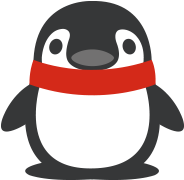
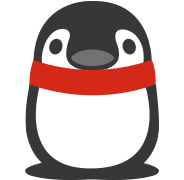
[!]

Changed region(s): [[0.8424, 0.4722, 1.0, 0.75], [0.0, 0.4722, 0.163, 0.75]]

diff --git a/demo/webank_2/css/style.css b/demo/webank_2/css/style.css
@@ -1990,8 +1990,8 @@ body{ background:#2559a8 url(../images/bg.jpg) no-repeat center bottom; backgrou
 .ice_hole_1 .tree_wrap_2 .tree_4{ display:block; height:12px; width:10px; background:url(../images/detail/tree_2.png) no-repeat 0 0; background-size:contain; position:absolute; left:55px; top:-6px;}
 
 .detail_penguin_wrap_2{ display:block; height:41px; width:44px; position:absolute; left:7px; top:-15px;}
-.detail_penguin_wrap_2 .penguin_show_2{ display:block; height:41px; width:44px; position:absolute; left:0; top:0;}
-.detail_penguin_wrap_2 .penguin_show_2 .detail_penguin_2{ display:block; height:41px; width:44px; background:url(../images/detail/detail_penguin_2.png) no-repeat 0 0; background-size:contain; position:absolute; left:0; top:0;}
+.detail_penguin_wrap_2 .penguin_show_2{ display:block; height:41px; width:44px; position:absolute; left:0; top:-5px; overflow:hidden;}
+.detail_penguin_wrap_2 .penguin_show_2 .detail_penguin_2{ display:block; height:41px; width:44px; background:url(../images/detail/detail_penguin_2.png) no-repeat 0 0; background-size:contain; position:absolute; left:0; top:0; -webkit-transform:translate(0,42px);}
 
 .firework_1{ display:block; height:84px; width:37px; background:url(../images/detail/firework_1.png) no-repeat 0 0; background-size:contain; position:absolute; left:4px; top:-60px;}
 .firework_2{ display:block; height:36px; width:45px; background:url(../images/detail/firework_2.png) no-repeat 0 0; background-size:contain; position:absolute; left:13px; top:-41px;}
@@ -2005,7 +2005,9 @@ body{ background:#2559a8 url(../images/bg.jpg) no-repeat center bottom; backgrou
 .wrap_show .event_list .item_2{ -webkit-animation:a_list_item 0.2s 1s linear both;}
 .wrap_show .event_list .item_3{ -webkit-animation:a_list_item 0.2s 1.2s linear both;}
 .wrap_show .event_list .item_4{ -webkit-animation:a_list_item 0.2s 1.4s linear both;}
-.wrap_show .detail_penguin_2{ -webkit-animation:a_detail_penguin_1 4s 0.3s linear infinite;}
+.wrap_show .detail_penguin_2{ -webkit-animation:a_detail_penguin_1 4.5s 0.5s linear infinite;}
+.wrap_show .firework_1{ -webkit-animation:a_firework_1 4.5s 0.3s linear infinite;}
+.wrap_show .firework_2{ -webkit-animation:a_firework_1 4.5s 0.6s linear infinite;}
 
 .wrap_show .ice_lake_1 .ice_block_1{ -webkit-animation:a_ice_block_1 4s 0.3s linear infinite alternate;}
 .wrap_show .detail_penguin_wrap_1 .penguin_show_1 .detail_penguin_1{ -webkit-animation:a_detail_penguin_1 4s 0.3s linear infinite;}
@@ -2014,6 +2016,20 @@ body{ background:#2559a8 url(../images/bg.jpg) no-repeat center bottom; backgrou
 .wrap_show .detail_penguin_wrap_1 .ripple_3{ -webkit-animation:a_ripple_1 4s 0.6s linear infinite;}
 .wrap_show .ice_lake_2 .boat_hook{ -webkit-animation:a_boat_hook_1 2s 1s linear both;}
 .wrap_show .ice_lake_2 .boat{ -webkit-animation:a_ice_block_1 4s 0.5s linear infinite alternate;}
+
+
+
+@-webkit-keyframes a_firework_1{
+	0%{ -webkit-transform:translate(0,-6px); opacity:0;}
+	20%{ -webkit-transform:translate(1px,-3px); opacity:0;}
+	25%{ -webkit-transform:translate(-1px,0px); opacity:1;}
+	40%{ -webkit-transform:translate(2px,3px); opacity:1;}
+	50%{ -webkit-transform:translate(-1px,6px); opacity:1;}
+	60%{ -webkit-transform:translate(2px,9px); opacity:1;}
+	75%{ -webkit-transform:translate(-1px,12px); opacity:1;}
+	80%{ -webkit-transform:translate(0px,15px); opacity:0;}
+	100%{ -webkit-transform:translate(0,0px); opacity:0;}
+}
 
 @-webkit-keyframes a_ice_block_1{
 	0%{ -webkit-transform:translate(0,0);}
@@ -2024,15 +2040,15 @@ body{ background:#2559a8 url(../images/bg.jpg) no-repeat center bottom; backgrou
 }
 
 @-webkit-keyframes a_detail_penguin_1{
-	0%{ -webkit-transform:translate(0,30px);}
-	20%{ -webkit-transform:translate(0px,30px);}
+	0%{ -webkit-transform:translate(0,42px);}
+	20%{ -webkit-transform:translate(0px,42px);}
 	25%{ -webkit-transform:translate(0px,0px);}
 	40%{ -webkit-transform:translate(0px,3px);}
 	50%{ -webkit-transform:translate(0px,1px);}
 	60%{ -webkit-transform:translate(0px,3px);}
 	75%{ -webkit-transform:translate(0px,0px);}
-	80%{ -webkit-transform:translate(0px,30px);}
-	100%{ -webkit-transform:translate(0,30px);}
+	80%{ -webkit-transform:translate(0px,42px);}
+	100%{ -webkit-transform:translate(0,42px);}
 }
 
 @-webkit-keyframes a_ripple_1{
@@ -2125,11 +2141,70 @@ body{ background:#2559a8 url(../images/bg.jpg) no-repeat center bottom; backgrou
 
 .ice_hole_2{ display:block; height:171px; width:212px; background:url(../images/detail/ice_hole_2.png) no-repeat 0 0; background-size:contain; position:absolute; left:50%; top:98px; margin-left:-106px;}
 .ice_hole_2 .ice_block_2{ display:block; height:100px; width:172px; background:url(../images/detail/ice_block_2.png) no-repeat 0 0; background-size:contain; position:absolute; left:13px; top:15px;}
-.ice_hole_2 .ice_block_2 .penguin_wrap_9{ display:block; height:90px; width:92px; background:url(../images/detail/detail_penguin_3.png) no-repeat 0 0; background-size:contain; position:absolute; left:48px; top:-22px; z-index:1;}
-.ice_hole_2 .ice_block_2 .penguin_shadow_9{ display:block; height:16px; width:85px; background:#cadaee; position:absolute; left:53px; bottom:28px; border-radius:85px/16px;}
+.penguin_wrap_9{ display:block; height:90px; width:92px; background:url(../images/detail/detail_penguin_3.png) no-repeat 0 0; background-size:contain; position:absolute; left:48px; top:-22px; z-index:1; opacity:0;}
+.penguin_wrap_9 .penguin_hand_1{ display:block; height:24px; width:18px; background:url(../images/detail/penguin_3_hand_1.png) no-repeat 0 0; background-size:contain; position:absolute; left:0px; top:43px; z-index:1; -webkit-transform-origin:100% 10%;}
+.penguin_wrap_9 .penguin_hand_2{ display:block; height:24px; width:18px; background:url(../images/detail/penguin_3_hand_2.png) no-repeat 0 0; background-size:contain; position:absolute; left:75px; top:43px; z-index:1; -webkit-transform-origin:0% 10%;}
+.penguin_shadow_9,.penguin_shadow_9_1,.penguin_shadow_9_2{ display:block; height:16px; width:85px; background:#cadaee; position:absolute; left:53px; bottom:28px; border-radius:85px/16px;}
+.penguin_shadow_9_1{ -webkit-transform:scale(0.5); left:-6px; top:-7px;}
+.penguin_shadow_9_2{ -webkit-transform:scale(0.38); left:124px; top:-21px;}
+.penguin_wrap_9_s_1{ -webkit-transform:scale(0.5); left:-10px; top:-66px;}
+.penguin_wrap_9_s_2{ -webkit-transform:scale(0.38); left:120px; top:-75px;}
 .join_us_title{ display:block; height:69px; width:127px; background:url(../images/detail/join_us.png) no-repeat 0 0; background-size:contain; position:absolute; left:50%; top:277px; margin-left:-63px; overflow:hidden; text-indent:-9999px;}
 .email_link{ display:block; height:70px; width:110px; background:url(../images/detail/join_email.png) no-repeat 0 0; background-size:contain; position:absolute; left:50%; top:391px; margin-left:-55px; overflow:hidden; text-indent:-9999px;}
 
+.wrap_show .ice_hole_2 .ice_block_2{ -webkit-animation:a_ice_block_1 4s 0.3s linear infinite alternate;}
+.wrap_show .ice_lake_8 .ice_block_1{ -webkit-animation:a_ice_block_1 4s 0.6s linear infinite alternate;}
+.wrap_show .ice_lake_8 .boat{ -webkit-animation:a_ice_block_1 4s 0.9s linear infinite alternate;}
+.wrap_show .join_us_title{ -webkit-animation:a_stock_title 0.3s 0.5s linear both;}
+.wrap_show .email_link{ -webkit-animation:a_stock_title 0.3s 0.8s linear both;}
+
+.wrap_show .penguin_wrap_9_leader{ -webkit-animation:a_penguin_9 0.2s 0.3s linear both;}
+.wrap_show .penguin_wrap_9_s_1{ -webkit-animation:a_penguin_9 0.2s 3s linear both;}
+.wrap_show .penguin_wrap_9_s_2{ -webkit-animation:a_penguin_9 0.2s 4.5s linear both;}
+.wrap_show .penguin_shadow_9{ -webkit-animation:a_penguin_9 0.2s 0.3s linear both;}
+.wrap_show .penguin_shadow_9_1{ -webkit-animation:a_penguin_9 0.2s 3s linear both;}
+.wrap_show .penguin_shadow_9_2{ -webkit-animation:a_penguin_9 0.2s 4.5s linear both;}
+
+.wrap_show .penguin_wrap_9 .penguin_hand_1{ -webkit-animation:a_penguin_9_hand_1 4s 0.5s linear infinite;}
+.wrap_show .penguin_wrap_9 .penguin_hand_2{ -webkit-animation:a_penguin_9_hand_2 4s 0.5s linear infinite;}
+
+
+@-webkit-keyframes a_penguin_9{
+	0%{ opacity:0;}
+	100%{ opacity:1;}
+}
+
+@-webkit-keyframes a_penguin_9_hand_1{
+	0%{ -webkit-transform: translate(0,0) scale(1,1) rotate(0deg);}
+	10%{ -webkit-transform: translate(0,0) scale(1,1) rotate(-10deg);}
+	20%{ -webkit-transform: translate(0,0) scale(1,1) rotate(0deg);}
+	30%{ -webkit-transform: translate(-3px,0) scale(-1,1) rotate(0deg);}
+	40%{ -webkit-transform: translate(-3px,0) scale(-1,1) rotate(0deg);}
+	50%{ -webkit-transform: translate(0,0) scale(1,1) rotate(0deg);}
+	60%{ -webkit-transform: translate(0,0) scale(1,1) rotate(0deg);}
+	70%{ -webkit-transform: translate(-3px,0) scale(-1,1) rotate(0deg);}
+	72%{ -webkit-transform: translate(-3px,0) scale(-1,1) rotate(0deg);}
+	80%{ -webkit-transform: translate(0,0) scale(1,1) rotate(0deg);}
+	90%{ -webkit-transform: translate(-3px,0) scale(-1,1) rotate(-10deg);}
+	92%{ -webkit-transform: translate(-3px,0) scale(-1,1) rotate(-10deg);}
+	100%{  -webkit-transform: translate(0,0) scale(1,1) rotate(0deg);}
+}
+
+@-webkit-keyframes a_penguin_9_hand_2{
+	0%{ -webkit-transform: translate(0,0) scale(1,1) rotate(0deg);}
+	10%{ -webkit-transform: translate(0,0) scale(1,1) rotate(10deg);}
+	20%{ -webkit-transform: translate(0,0) scale(1,1) rotate(0deg);}
+	30%{ -webkit-transform: translate(0,0) scale(1,1) rotate(0deg);}
+	40%{ -webkit-transform: translate(3px,0) scale(-1,1) rotate(0deg);}
+	50%{ -webkit-transform: translate(3px,0) scale(-1,1) rotate(0deg);}
+	60%{ -webkit-transform: translate(0,0) scale(1,1) rotate(0deg);}
+	70%{ -webkit-transform: translate(3px,0) scale(-1,1) rotate(0deg);}
+	72%{ -webkit-transform: translate(3px,0) scale(-1,1) rotate(0deg);}
+	80%{ -webkit-transform: translate(0,0) scale(1,1) rotate(0deg);}
+	90%{ -webkit-transform: translate(3px,0) scale(-1,1) rotate(10deg);}
+	92%{ -webkit-transform: translate(3px,0) scale(-1,1) rotate(10deg);}
+	100%{  -webkit-transform: translate(0,0) scale(1,1) rotate(0deg);}
+}
 /*加入我们*/
 
 /*We分享*/

diff --git a/demo/webank_2/index_2.html b/demo/webank_2/index_2.html
@@ -385,7 +385,7 @@
             </span>
             
         </div>
-        <div class="details_con detail_event current">
+        <div class="details_con detail_event wrap_before">
         
         	<div class="event_wrap">
                 <h3 class="event_title">大事件</h3>
@@ -507,7 +507,7 @@
         </div>
         
         
-        <div class="details_con detail_join wrap_before">
+        <div class="details_con detail_join current">
         	
             <div class="ice_lake_7"></div>
             <div class="ice_lake_8">
@@ -517,16 +517,29 @@
             
             <div class="ice_hole_2">
             	<div class="ice_block_2">
-                	<div class="penguin_wrap_9">
+                	<div class="penguin_wrap_9 penguin_wrap_9_leader">
                     	<div class="penguin_hand_1"></div>
                         <div class="penguin_hand_2"></div>
                     </div>
                     <div class="penguin_shadow_9"></div>
                 </div>
+                
+                <div class="penguin_wrap_9 penguin_wrap_9_s_1">
+                    <div class="penguin_hand_1"></div>
+                    <div class="penguin_hand_2"></div>
+                </div>
+                <div class="penguin_shadow_9_1"></div>
+                
+                <div class="penguin_wrap_9 penguin_wrap_9_s_2">
+                    <div class="penguin_hand_1"></div>
+                    <div class="penguin_hand_2"></div>
+                </div>
+                <div class="penguin_shadow_9_2"></div>
             </div>
             
+            
             <div class="join_us_title">加入我们 完成梦想</div>
-            <div class="email_link">请将你的简历发至 hr@webank.com</div>
+            <a class="email_link" href="mailto:hr@webank.com">请将你的简历发至 hr@webank.com</a>
             
             <span class="dot_wrap">
             	<i class="dot"></i>
